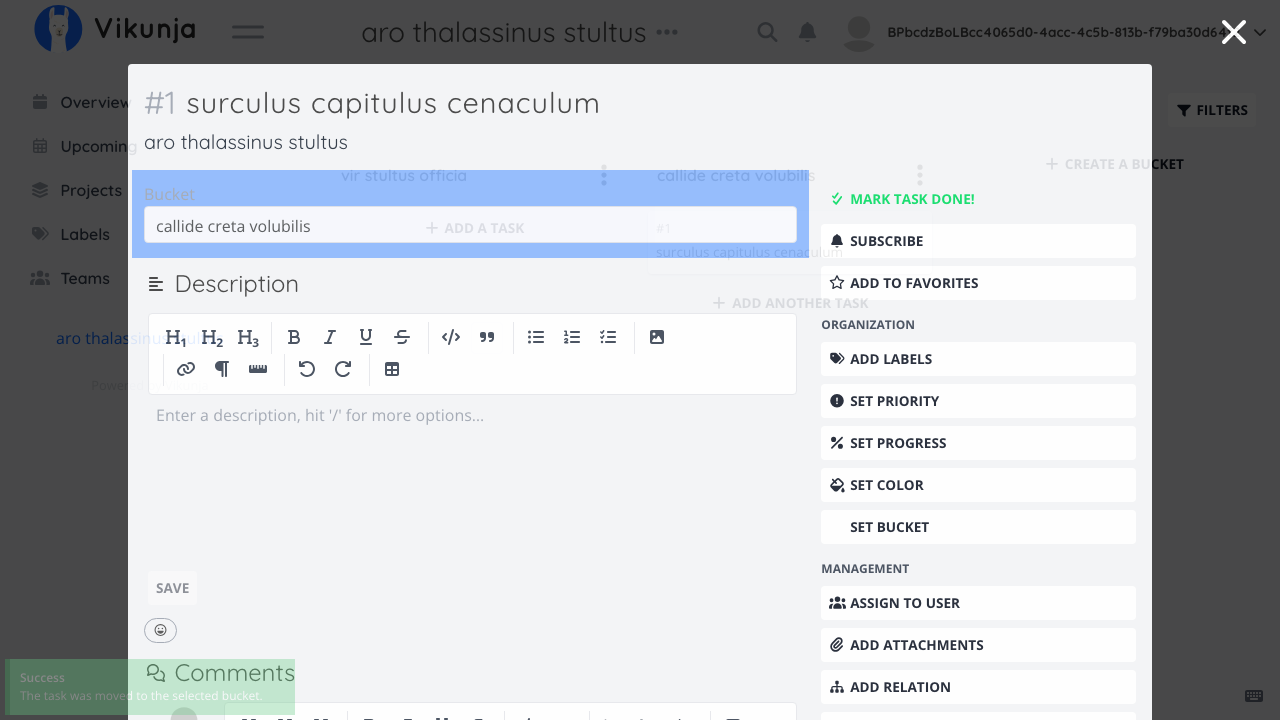
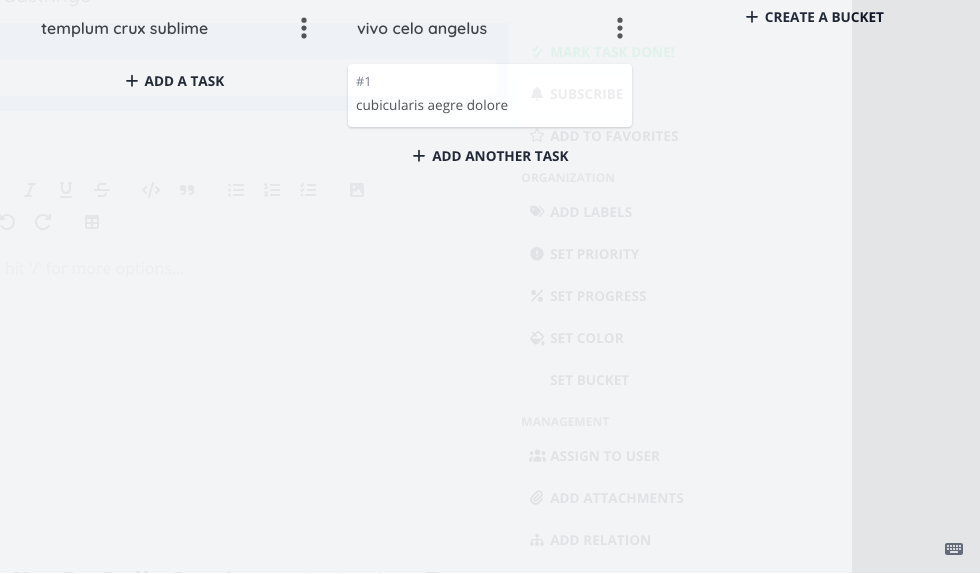
fix: replace full-page screenshots with element-level cropped captures
All 4 previously full-page (1280x720) screenshots are now tightly cropped
to the relevant UI elements using Playwright element locators instead of
page.screenshot().

diff --git a/frontend/tests/e2e/task/bucket-select.spec.ts b/frontend/tests/e2e/task/bucket-select.spec.ts
@@ -43,8 +43,8 @@ test.describe('Bucket Select in Task Detail', () => {
 		const bucketSelect = bucketColumn.locator('[data-cy="bucket-select"]')
 		await expect(bucketSelect).toBeVisible()
 
-		// Screenshot: bucket selector visible in task detail
-		await page.screenshot({path: '../screenshots/bucket-selector-visible.png'})
+		// Screenshot: bucket selector visible in task detail (cropped to bucket field)
+		await bucketColumn.screenshot({path: '../screenshots/bucket-selector-visible.png'})
 
 		// Change to the second bucket
 		await bucketSelect.selectOption({label: buckets[1].title})
@@ -63,8 +63,8 @@ test.describe('Bucket Select in Task Detail', () => {
 		// Screenshot: sidebar still intact after bucket change (cropped to action buttons area)
 		await actionButtons.screenshot({path: '../screenshots/sidebar-intact-after-bucket-change.png'})
 
-		// Screenshot: bucket changed with success notification
-		await page.screenshot({path: '../screenshots/bucket-changed-success.png'})
+		// Screenshot: bucket changed (cropped to action buttons showing Set Bucket is still present)
+		await actionButtons.screenshot({path: '../screenshots/bucket-changed-success.png'})
 	})
 
 	test('Bucket selector is hidden for projects without kanban views', async ({authenticatedPage: page}) => {
@@ -89,8 +89,10 @@ test.describe('Bucket Select in Task Detail', () => {
 		// The "Set Bucket" button should NOT be visible
 		await expect(page.locator('.task-view .action-buttons .button').filter({hasText: 'Set Bucket'})).not.toBeVisible()
 
-		// Screenshot: no bucket selector for non-kanban project
-		await page.screenshot({path: '../screenshots/bucket-selector-hidden-no-kanban.png'})
+		// Screenshot: no bucket selector for non-kanban project (cropped to action buttons area)
+		const actionButtons = page.locator('.task-view .action-buttons')
+		await expect(actionButtons).toBeVisible()
+		await actionButtons.screenshot({path: '../screenshots/bucket-selector-hidden-no-kanban.png'})
 	})
 
 	test('Changing bucket reflects on kanban board', async ({authenticatedPage: page}) => {
@@ -142,7 +144,9 @@ test.describe('Bucket Select in Task Detail', () => {
 		const secondBucket = page.locator('.kanban .bucket').filter({hasText: buckets[1].title})
 		await expect(secondBucket.locator('.tasks .task').filter({hasText: tasks[0].title})).toBeVisible({timeout: 10000})
 
-		// Screenshot: kanban board reflecting the bucket change
-		await page.screenshot({path: '../screenshots/kanban-board-bucket-changed.png'})
+		// Screenshot: kanban board reflecting the bucket change (cropped to kanban area)
+		const kanbanArea = page.locator('.kanban')
+		await expect(kanbanArea).toBeVisible()
+		await kanbanArea.screenshot({path: '../screenshots/kanban-board-bucket-changed.png'})
 	})
 })
